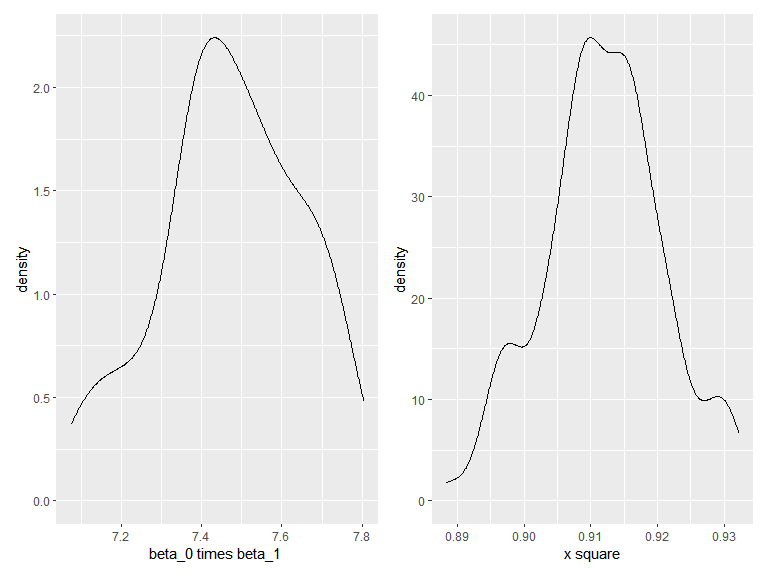
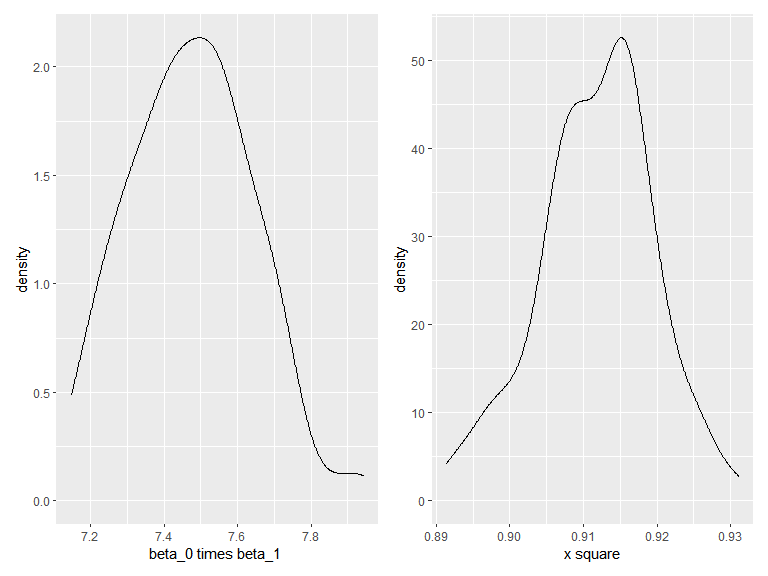
other models and knit

diff --git a/p8105_hw6_zj2357.md b/p8105_hw6_zj2357.md
@@ -9,6 +9,7 @@ First of all, we should include the libraries we are using.
 library(tidyverse)
 library(p8105.datasets)
 library(patchwork)
+library(modelr)
 
 knitr::opts_chunk$set(
   message  = FALSE,
@@ -97,8 +98,8 @@ conf_int
     ## # A tibble: 2 × 3
     ##   variable lower_CI higher_CI
     ##   <chr>       <dbl>     <dbl>
-    ## 1 beta_sq     7.11      7.75 
-    ## 2 rsq         0.895     0.930
+    ## 1 beta_sq     7.18      7.75 
+    ## 2 rsq         0.895     0.926
 
 # Problem 2
 
@@ -196,4 +197,211 @@ logi_fit %>%
 Thus, in most cities, after adjusting for race and age, cases with male
 victims have more odds to be unsolved.
 
-# 
+# Problem 3
+
+``` r
+rm(list = ls())
+
+racelist = c("white","black", "asian", "puerto rican", "other", "unknown")
+birth_df = 
+  read_csv("data/birthweight.csv") %>%
+  na.omit() %>%
+  mutate(
+    babysex = factor(babysex, levels = 1:2, labels = c("male","female")),
+    frace = factor(frace, levels = c(1,2,3,4,8,9),labels= c("white","black", "asian", "puerto rican", "other", "unknown")),
+    mrace = factor(mrace, levels = c(1,2,3,4,8),labels= c("white","black", "asian", "puerto rican", "other")),
+    malform = factor(malform, levels = 0:1,labels = c("absent","present"))
+  ) %>%
+  select(bwt, everything())
+```
+
+building my model
+
+``` r
+my_model = step(lm(bwt ~ ., data = birth_df),direction = "both")
+```
+
+    ## Start:  AIC=48717.83
+    ## bwt ~ babysex + bhead + blength + delwt + fincome + frace + gaweeks + 
+    ##     malform + menarche + mheight + momage + mrace + parity + 
+    ##     pnumlbw + pnumsga + ppbmi + ppwt + smoken + wtgain
+    ## 
+    ## 
+    ## Step:  AIC=48717.83
+    ## bwt ~ babysex + bhead + blength + delwt + fincome + frace + gaweeks + 
+    ##     malform + menarche + mheight + momage + mrace + parity + 
+    ##     pnumlbw + pnumsga + ppbmi + ppwt + smoken
+    ## 
+    ## 
+    ## Step:  AIC=48717.83
+    ## bwt ~ babysex + bhead + blength + delwt + fincome + frace + gaweeks + 
+    ##     malform + menarche + mheight + momage + mrace + parity + 
+    ##     pnumlbw + ppbmi + ppwt + smoken
+    ## 
+    ## 
+    ## Step:  AIC=48717.83
+    ## bwt ~ babysex + bhead + blength + delwt + fincome + frace + gaweeks + 
+    ##     malform + menarche + mheight + momage + mrace + parity + 
+    ##     ppbmi + ppwt + smoken
+    ## 
+    ##            Df Sum of Sq       RSS   AIC
+    ## - frace     4    124365 320848704 48712
+    ## - malform   1      1419 320725757 48716
+    ## - ppbmi     1      6346 320730684 48716
+    ## - momage    1     28661 320752999 48716
+    ## - mheight   1     66886 320791224 48717
+    ## - menarche  1    111679 320836018 48717
+    ## - ppwt      1    131132 320855470 48718
+    ## <none>                  320724338 48718
+    ## - fincome   1    193454 320917792 48718
+    ## - parity    1    413584 321137922 48721
+    ## - mrace     3    868321 321592659 48724
+    ## - babysex   1    853796 321578134 48727
+    ## - gaweeks   1   4611823 325336161 48778
+    ## - smoken    1   5076393 325800732 48784
+    ## - delwt     1   8008891 328733230 48823
+    ## - blength   1 102050296 422774634 49915
+    ## - bhead     1 106535716 427260054 49961
+    ## 
+    ## Step:  AIC=48711.51
+    ## bwt ~ babysex + bhead + blength + delwt + fincome + gaweeks + 
+    ##     malform + menarche + mheight + momage + mrace + parity + 
+    ##     ppbmi + ppwt + smoken
+    ## 
+    ##            Df Sum of Sq       RSS   AIC
+    ## - malform   1      1447 320850151 48710
+    ## - ppbmi     1      6975 320855679 48710
+    ## - momage    1     28379 320877083 48710
+    ## - mheight   1     69502 320918206 48710
+    ## - menarche  1    115708 320964411 48711
+    ## - ppwt      1    133961 320982665 48711
+    ## <none>                  320848704 48712
+    ## - fincome   1    194405 321043108 48712
+    ## - parity    1    414687 321263390 48715
+    ## + frace     4    124365 320724338 48718
+    ## - babysex   1    852133 321700837 48721
+    ## - gaweeks   1   4625208 325473911 48772
+    ## - smoken    1   5036389 325885093 48777
+    ## - delwt     1   8013099 328861802 48817
+    ## - mrace     3  13540415 334389119 48885
+    ## - blength   1 101995688 422844392 49908
+    ## - bhead     1 106662962 427511666 49956
+    ## 
+    ## Step:  AIC=48709.53
+    ## bwt ~ babysex + bhead + blength + delwt + fincome + gaweeks + 
+    ##     menarche + mheight + momage + mrace + parity + ppbmi + ppwt + 
+    ##     smoken
+    ## 
+    ##            Df Sum of Sq       RSS   AIC
+    ## - ppbmi     1      6928 320857079 48708
+    ## - momage    1     28660 320878811 48708
+    ## - mheight   1     69320 320919470 48708
+    ## - menarche  1    116027 320966177 48709
+    ## - ppwt      1    133894 320984044 48709
+    ## <none>                  320850151 48710
+    ## - fincome   1    193784 321043934 48710
+    ## + malform   1      1447 320848704 48712
+    ## - parity    1    414482 321264633 48713
+    ## + frace     4    124393 320725757 48716
+    ## - babysex   1    851279 321701430 48719
+    ## - gaweeks   1   4624003 325474154 48770
+    ## - smoken    1   5035195 325885346 48775
+    ## - delwt     1   8029079 328879230 48815
+    ## - mrace     3  13553320 334403471 48883
+    ## - blength   1 102009225 422859375 49906
+    ## - bhead     1 106675331 427525481 49954
+    ## 
+    ## Step:  AIC=48707.63
+    ## bwt ~ babysex + bhead + blength + delwt + fincome + gaweeks + 
+    ##     menarche + mheight + momage + mrace + parity + ppwt + smoken
+    ## 
+    ##            Df Sum of Sq       RSS   AIC
+    ## - momage    1     29211 320886290 48706
+    ## - menarche  1    117635 320974714 48707
+    ## <none>                  320857079 48708
+    ## - fincome   1    195199 321052278 48708
+    ## + ppbmi     1      6928 320850151 48710
+    ## + malform   1      1400 320855679 48710
+    ## - parity    1    412984 321270064 48711
+    ## + frace     4    125020 320732060 48714
+    ## - babysex   1    850020 321707099 48717
+    ## - mheight   1   1078673 321935752 48720
+    ## - ppwt      1   2934023 323791103 48745
+    ## - gaweeks   1   4621504 325478583 48768
+    ## - smoken    1   5039368 325896447 48773
+    ## - delwt     1   8024939 328882018 48813
+    ## - mrace     3  13551444 334408523 48881
+    ## - blength   1 102018559 422875638 49904
+    ## - bhead     1 106821342 427678421 49953
+    ## 
+    ## Step:  AIC=48706.02
+    ## bwt ~ babysex + bhead + blength + delwt + fincome + gaweeks + 
+    ##     menarche + mheight + mrace + parity + ppwt + smoken
+    ## 
+    ##            Df Sum of Sq       RSS   AIC
+    ## - menarche  1    100121 320986412 48705
+    ## <none>                  320886290 48706
+    ## - fincome   1    240800 321127090 48707
+    ## + momage    1     29211 320857079 48708
+    ## + ppbmi     1      7479 320878811 48708
+    ## + malform   1      1678 320884612 48708
+    ## - parity    1    431433 321317724 48710
+    ## + frace     4    124743 320761547 48712
+    ## - babysex   1    841278 321727568 48715
+    ## - mheight   1   1076739 321963029 48719
+    ## - ppwt      1   2913653 323799943 48743
+    ## - gaweeks   1   4676469 325562760 48767
+    ## - smoken    1   5045104 325931394 48772
+    ## - delwt     1   8000672 328886962 48811
+    ## - mrace     3  14667730 335554021 48894
+    ## - blength   1 101990556 422876847 49902
+    ## - bhead     1 106864308 427750598 49952
+    ## 
+    ## Step:  AIC=48705.38
+    ## bwt ~ babysex + bhead + blength + delwt + fincome + gaweeks + 
+    ##     mheight + mrace + parity + ppwt + smoken
+    ## 
+    ##            Df Sum of Sq       RSS   AIC
+    ## <none>                  320986412 48705
+    ## + menarche  1    100121 320886290 48706
+    ## - fincome   1    245637 321232048 48707
+    ## + momage    1     11698 320974714 48707
+    ## + ppbmi     1      8823 320977589 48707
+    ## + malform   1      1884 320984528 48707
+    ## - parity    1    422770 321409181 48709
+    ## + frace     4    128726 320857686 48712
+    ## - babysex   1    846134 321832545 48715
+    ## - mheight   1   1012240 321998651 48717
+    ## - ppwt      1   2907049 323893461 48743
+    ## - gaweeks   1   4662501 325648912 48766
+    ## - smoken    1   5073849 326060260 48771
+    ## - delwt     1   8137459 329123871 48812
+    ## - mrace     3  14683609 335670021 48894
+    ## - blength   1 102191779 423178191 49903
+    ## - bhead     1 106779754 427766166 49950
+
+``` r
+formula(my_model)
+```
+
+    ## bwt ~ babysex + bhead + blength + delwt + fincome + gaweeks + 
+    ##     mheight + mrace + parity + ppwt + smoken
+
+plotting
+
+``` r
+birth_df %>%
+  add_predictions(my_model) %>%
+  add_residuals(my_model) %>%
+  ggplot(aes(x=pred,y=resid)) +
+  geom_point()
+```
+
+<img src="p8105_hw6_zj2357_files/figure-gfm/unnamed-chunk-11-1.png" width="90%" />
+
+other models
+
+``` r
+model_1 = lm(bwt ~ blength+ gaweeks,data = birth_df)
+model_2 = lm(bwt ~ (bhead+ blength +babysex)^3,data = birth_df)
+```
